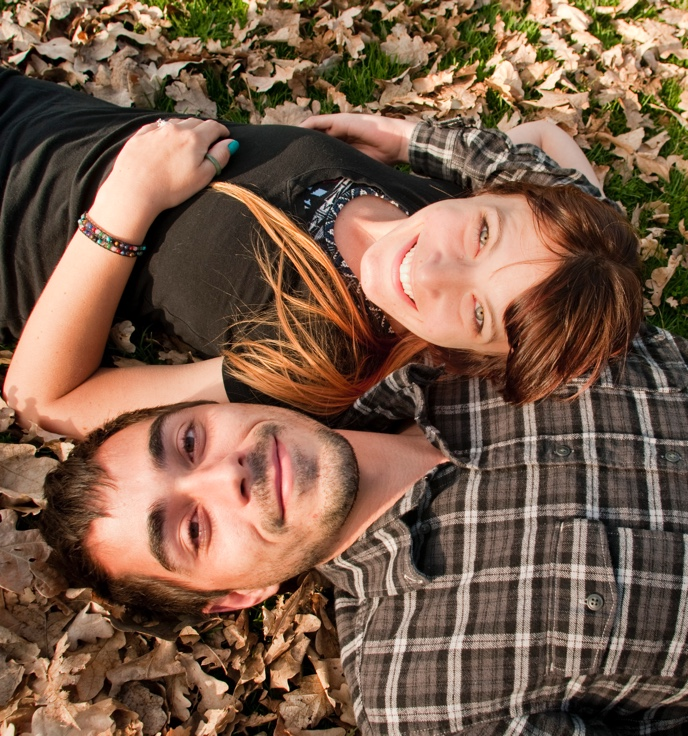
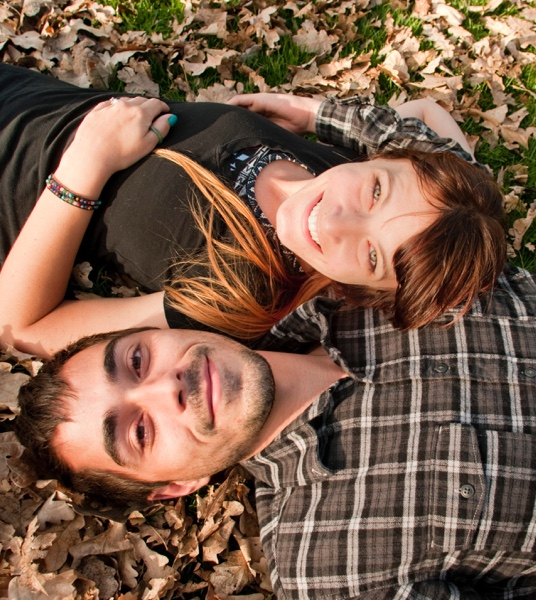
Pushed fix for hero image

diff --git a/public/stylesheets/style.css b/public/stylesheets/style.css
@@ -199,17 +199,30 @@ html {
 p, input, label, select {
   font-family: 'Montserrat', sans-serif; }
 
-.landing-section {
-  background: url(../../img/wedding.jpg) no-repeat center center fixed;
-  -webkit-background-size: cover;
-  -moz-background-size: cover;
-  -o-background-size: cover;
-  background-size: cover;
-  min-height: 1000px; }
-  @media screen and (max-width: 768px) {
-    .landing-section {
-      background: url(../../img/wedding-small.jpg) no-repeat center top fixed;
-      min-height: 740px; } }
+@media screen and (max-width: 768px) {
+  .landing-section {
+    background: url(../../img/wedding-small.jpg) no-repeat center;
+    min-height: 600px;
+    -webkit-background-size: cover;
+    -moz-background-size: cover;
+    -o-background-size: cover;
+    background-size: cover; } }
+@media screen and (min-width: 525px) {
+  .landing-section {
+    background: url(../../img/wedding-mid.jpg) no-repeat center top;
+    min-height: 600px;
+    -webkit-background-size: cover;
+    -moz-background-size: cover;
+    -o-background-size: cover;
+    background-size: cover; } }
+@media screen and (min-width: 700px) {
+  .landing-section {
+    background: url(../../img/wedding.jpg) no-repeat center top fixed;
+    min-height: 1000px;
+    -webkit-background-size: cover;
+    -moz-background-size: cover;
+    -o-background-size: cover;
+    background-size: cover; } }
 
 .scroll-on-page {
   display: inline-block; }
